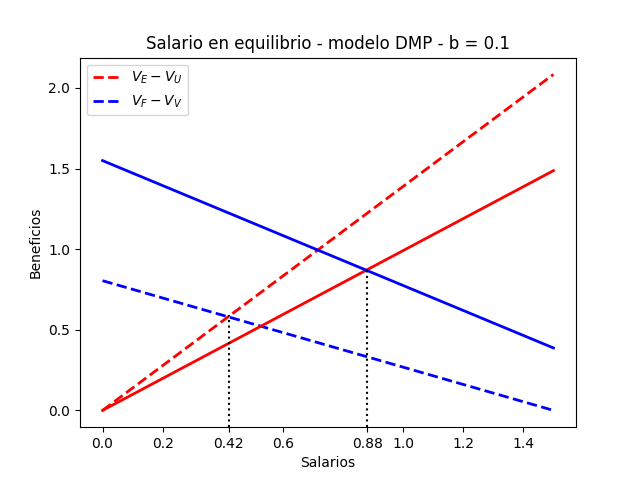
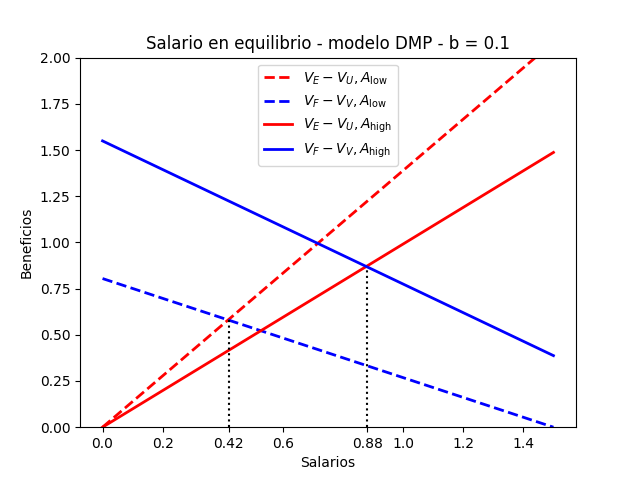
final

diff --git a/DMP-salario-b=01.py b/DMP-salario-b=01.py
@@ -48,8 +48,8 @@ VFVV_l = (A_l-w)/(alpha+b+r)
 
 # ploteamos
 fig, ax = plt.subplots()
-ax.plot(w, VEVU_l, color='red', linewidth=2, linestyle="--") 
-ax.plot(w, VFVV_l, color='blue', linewidth=2, linestyle="--") 
+ax.plot(w, VEVU_l, color='red', linewidth=2, linestyle="--", label=r"$V_{E}-V_{U}, A_{\text{low}}$") 
+ax.plot(w, VFVV_l, color='blue', linewidth=2, linestyle="--", label=r"$V_{F}-V_{V}, A_{\text{low}}$")  
 
 
 ##################################################
@@ -70,11 +70,12 @@ VEVU_h = w/(a+b+r)
 VFVV_h = (A_h-w)/(alpha+b+r)
 
 
-ax.plot(w, VEVU_h, color='red', linewidth=2) 
-ax.plot(w, VFVV_h, color='blue', linewidth=2) 
+ax.plot(w, VEVU_h, color='red', linewidth=2, label=r"$V_{E}-V_{U}, A_{\text{high}}$") 
+ax.plot(w, VFVV_h, color='blue', linewidth=2, label=r"$V_{F}-V_{V}, A_{\text{high}}$") 
+
 
 # labels
-plt.legend([r"$V_{E}-V_{U}$", r"$V_{F}-V_{V}$"])
+plt.legend()
 ax.set_title(f"Salario en equilibrio - modelo DMP - b = {b}")
 ax.set_ylabel('Beneficios')
 ax.set_xlabel('Salarios')
@@ -85,7 +86,7 @@ ax.axvline(x=w_h_eq, color='black', linestyle=':', ymin=0,
            ymax=(w_h_eq - ax.get_ylim()[0]) / (ax.get_ylim()[1] - ax.get_ylim()[0])) 
 
 ax.axvline(x=w_l_eq, color='black', linestyle=':', ymin=0, 
-           ymax=(w_l_eq - ax.get_ylim()[0]) / (ax.get_ylim()[1] - ax.get_ylim()[0]) + 0.075) 
+           ymax=(w_l_eq - ax.get_ylim()[0]) / (ax.get_ylim()[1] - ax.get_ylim()[0]) + 0.07) 
 
 
 # agrega label en el tick de w de equilibrio
@@ -96,6 +97,7 @@ del t[2]
 del t[-5]
 labels = [round(i, 2) for i in t]
 plt.xticks(ticks=t, labels = labels, fontsize=10)
+plt.ylim([0, 2])
 
 fig.savefig("DMP-salario-b=01.png")
 plt.show()

diff --git a/DMP-salario-b=02.py b/DMP-salario-b=02.py
@@ -48,8 +48,9 @@ VFVV_l = (A_l-w)/(alpha+b+r)
 
 # ploteamos
 fig, ax = plt.subplots()
-ax.plot(w, VEVU_l, color='red', linewidth=2, linestyle="--") 
-ax.plot(w, VFVV_l, color='blue', linewidth=2, linestyle="--") 
+ax.plot(w, VEVU_l, color='red', linewidth=2, linestyle="--", label=r"$V_{E}-V_{U}, A_{\text{low}}$") 
+ax.plot(w, VFVV_l, color='blue', linewidth=2, linestyle="--", label=r"$V_{F}-V_{V}, A_{\text{low}}$") 
+
 
 
 ##################################################
@@ -70,11 +71,12 @@ VEVU_h = w/(a+b+r)
 VFVV_h = (A_h-w)/(alpha+b+r)
 
 
-ax.plot(w, VEVU_h, color='red', linewidth=2) 
-ax.plot(w, VFVV_h, color='blue', linewidth=2) 
+ax.plot(w, VEVU_h, color='red', linewidth=2, label=r"$V_{E}-V_{U}, A_{\text{high}}$") 
+ax.plot(w, VFVV_h, color='blue', linewidth=2, label=r"$V_{F}-V_{V}, A_{\text{high}}$") 
+
 
 # labels
-plt.legend([r"$V_{E}-V_{U}$", r"$V_{F}-V_{V}$"])
+plt.legend()
 ax.set_title(f"Salario en equilibrio - modelo DMP - b = {b}")
 ax.set_ylabel('Beneficios')
 ax.set_xlabel('Salarios')
@@ -82,7 +84,7 @@ ax.set_xlabel('Salarios')
 
 
 ax.axvline(x=w_h_eq, color='black', linestyle=':', ymin=0, 
-           ymax=(w_h_eq - ax.get_ylim()[0]) / (ax.get_ylim()[1] - ax.get_ylim()[0])) 
+           ymax=(w_h_eq - ax.get_ylim()[0]) / (ax.get_ylim()[1] - ax.get_ylim()[0]) - 0.02) 
 
 ax.axvline(x=w_l_eq, color='black', linestyle=':', ymin=0, 
            ymax=(w_l_eq - ax.get_ylim()[0]) / (ax.get_ylim()[1] - ax.get_ylim()[0]) + 0.05) 
@@ -97,6 +99,6 @@ del t[-5]
 print(t)
 labels = [round(i, 2) for i in t]
 plt.xticks(ticks=t, labels = labels, fontsize=10)
-
+plt.ylim([0, 2])
 fig.savefig("DMP-salario-b=02.png")
 plt.show()

diff --git a/DMP.py b/DMP.py
@@ -1,0 +1,35 @@
+class DMP():
+    def __init__(self, 
+                 beta=None
+                 gamma=None
+                 K=None
+                 r=None
+                 b=None
+                 C=None
+                 L_bar=None
+                 )
+    self.beta=beta
+    self.gamma=gamma
+    self.K=K
+    self.r=r
+    self.b=b
+    self.C=C
+    self.L_bar=L_bar
+    
+    def 
+    
+
+
+
+if __name__ == "__main__":
+
+    
+    b_02 = DMP(
+        beta = 0.5,
+        gamma = 1 - beta,
+        K = 1,
+        r = 0.04,
+        b = 0.2,
+        C = 1,
+        L_barra = 100
+    )

diff --git a/TP3.md b/TP3.md
@@ -59,8 +59,6 @@ donde $\gamma$ es el poder de negociación del trabajador. Igual poder de negoci
 2
 
 
-
-
 ---
 BIBLIOGRAFIA
 
